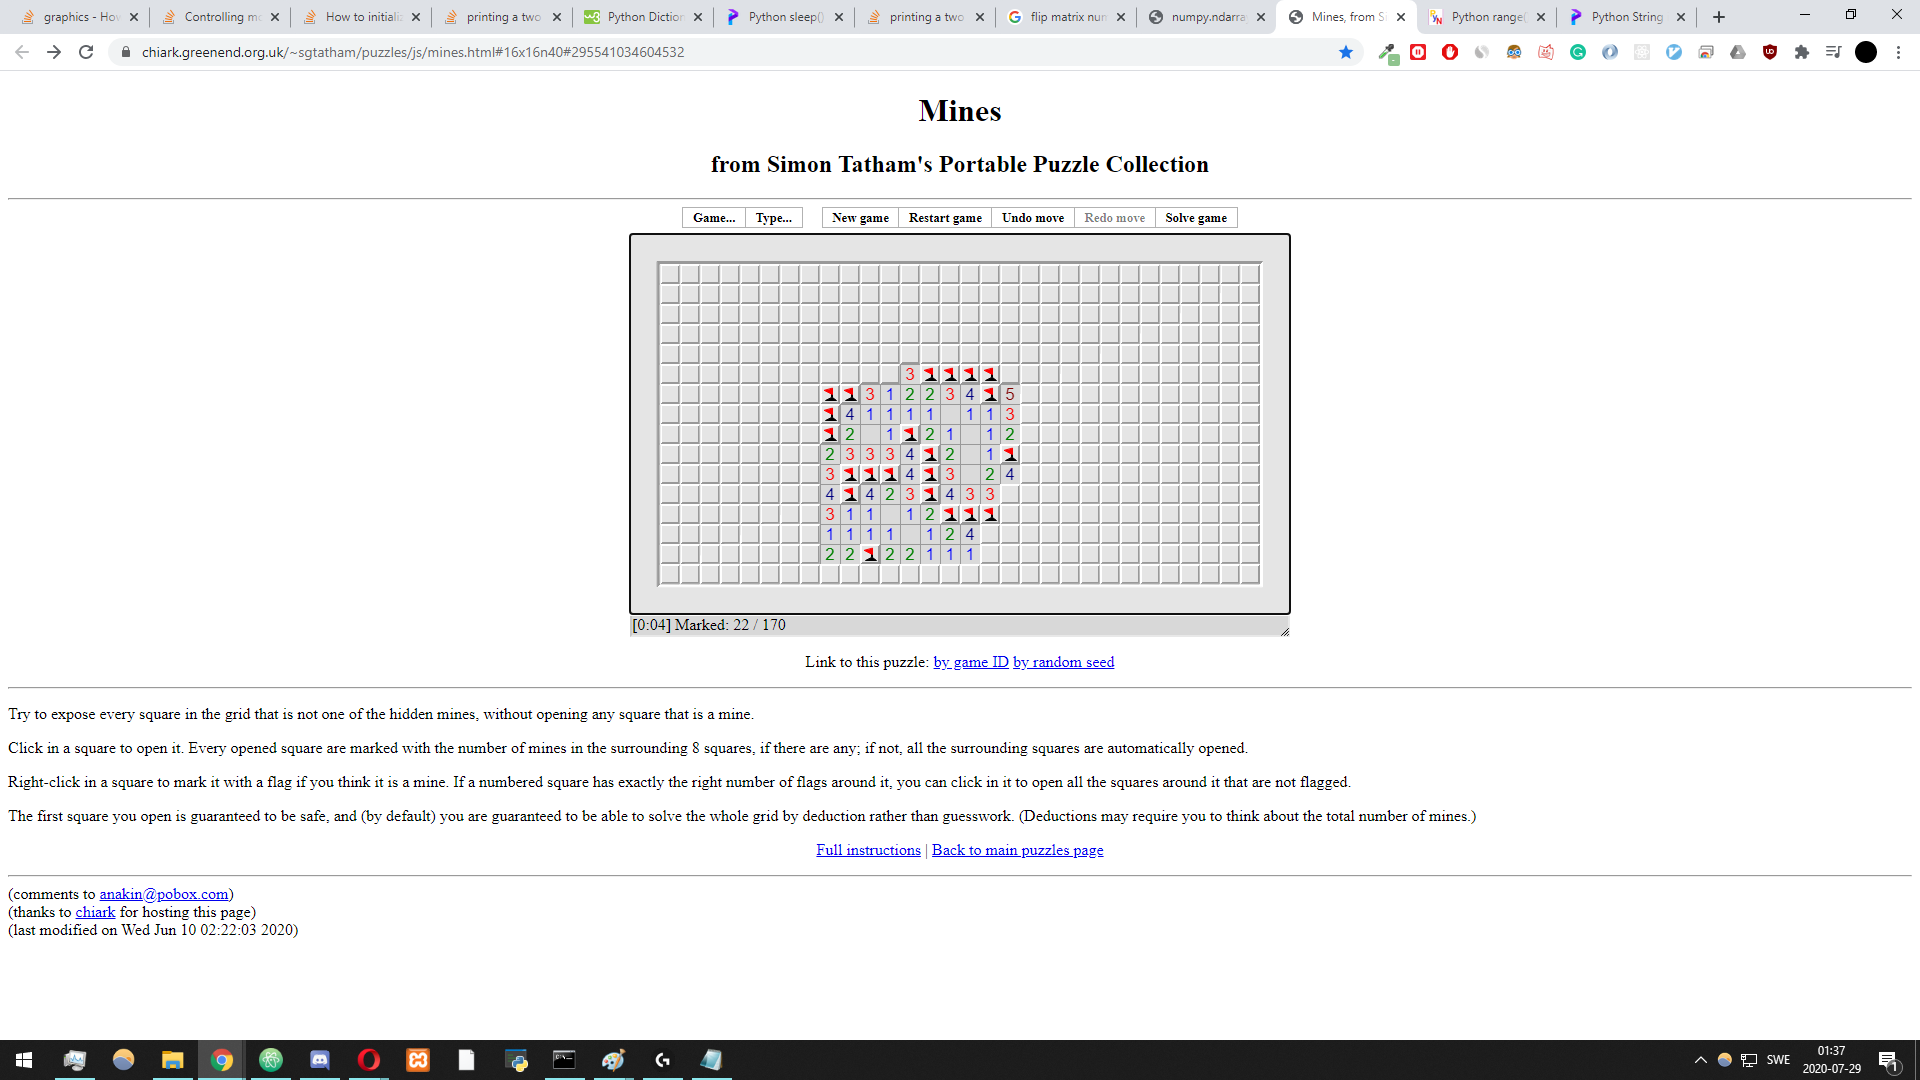
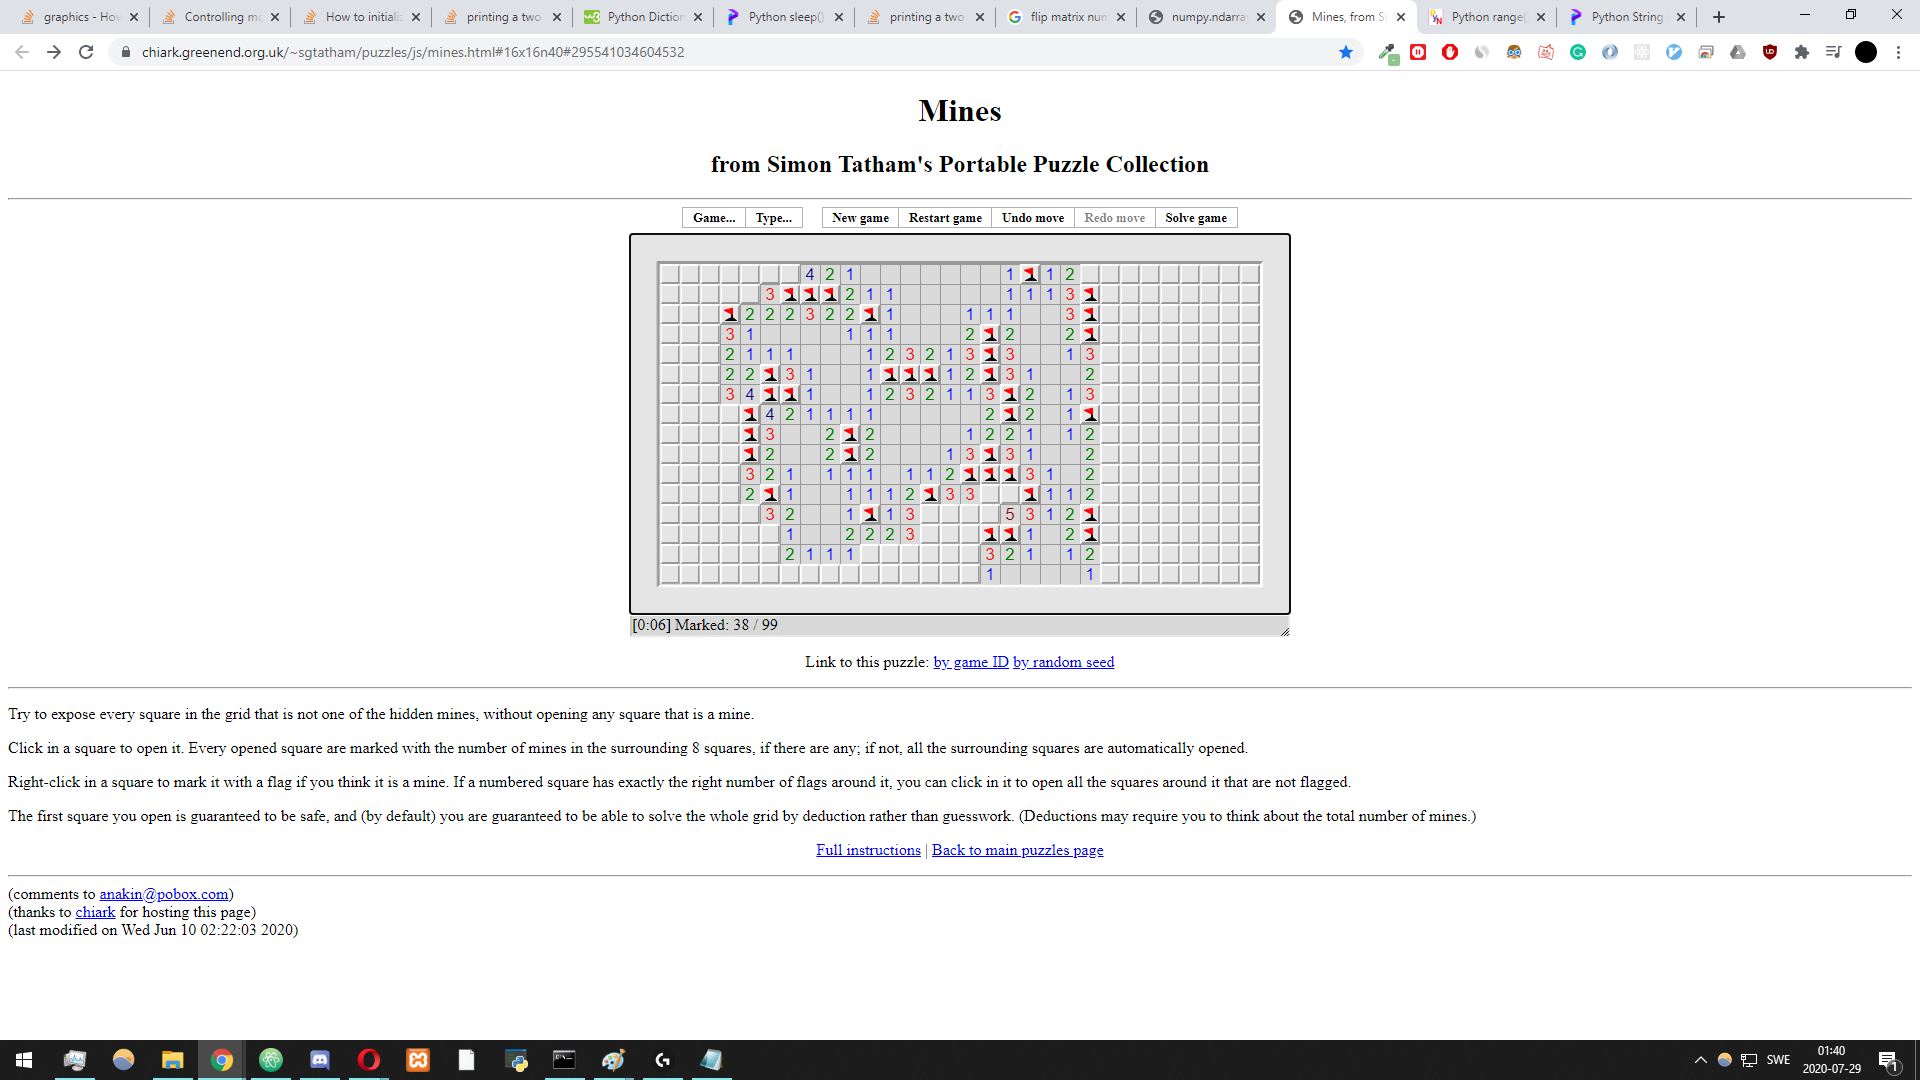
Changed to easier difficulty

Changed region(s): [[0.375, 0.2444, 0.5938, 0.55]]

diff --git a/main.py b/main.py
@@ -219,7 +219,10 @@ def printState():
 
 def resetGame():
     click(750, 220)
-    click(750, 358)
+    #click(750, 358) # HARD
+
+    click(750, 338) # EASIER
+
     board = [ [UNKNOWN_SQUARE]*HEIGHT for i in range(WIDTH)]
     unknownAround = [ [0]*HEIGHT for i in range(WIDTH)]
     minesAround = [ [0]*HEIGHT for i in range(WIDTH)]
